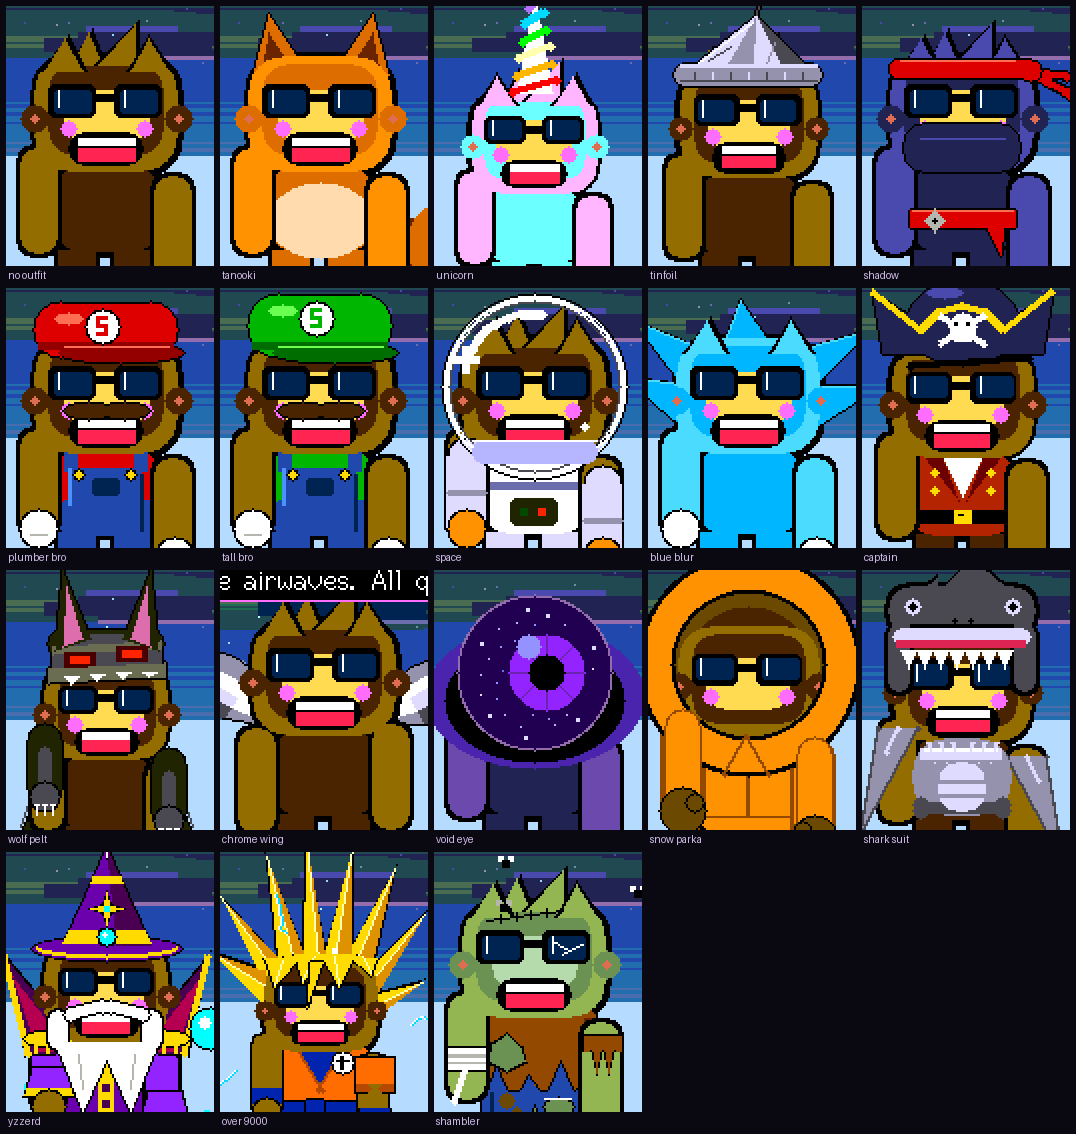
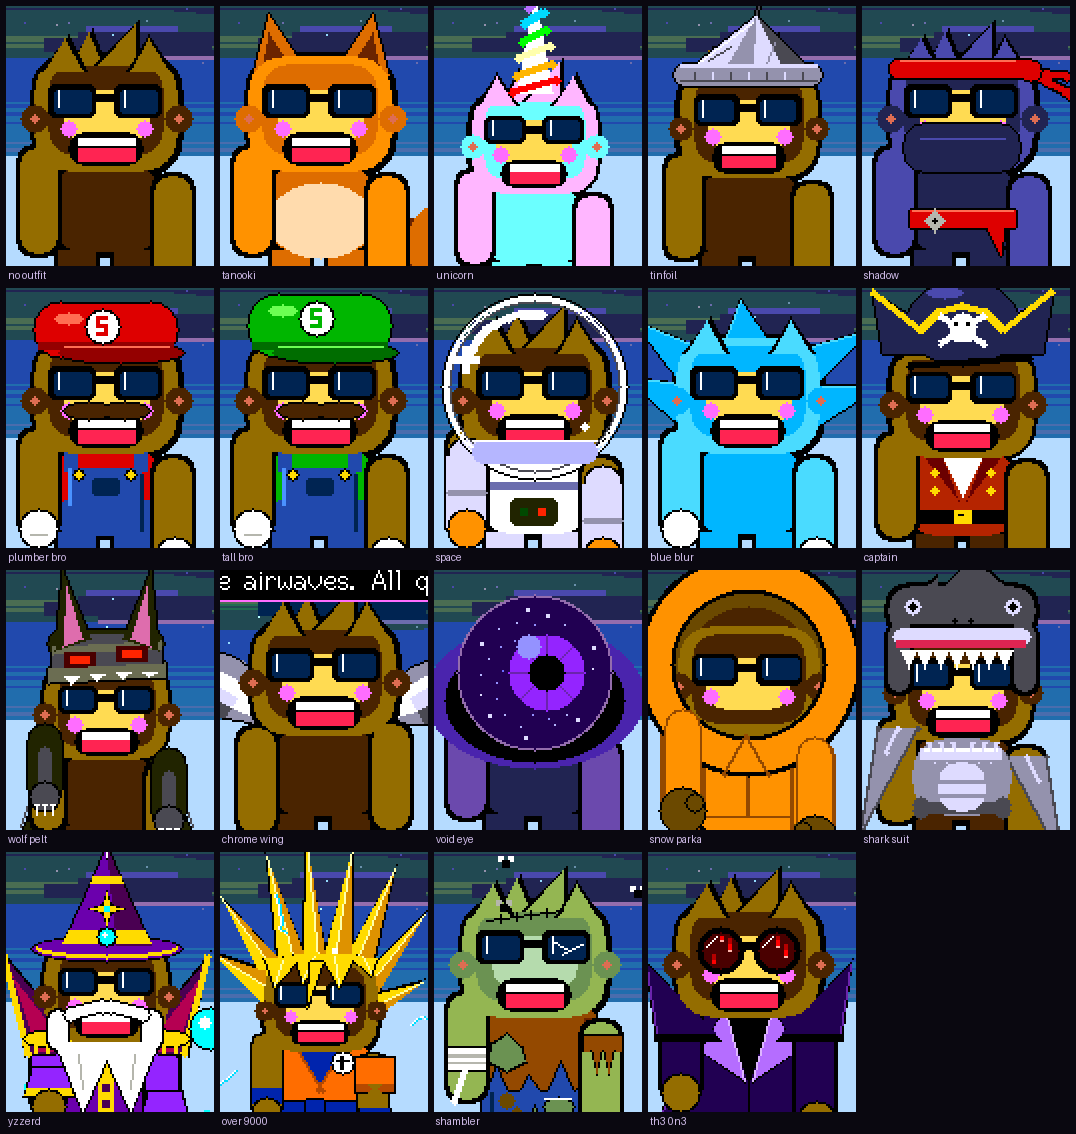
v1.30.0 "No Spoon": notes, clip, gallery with eighteen costumes

Changed region(s): [[0.5827, 0.7407, 0.7974, 1.0]]

diff --git a/sim/make_show_demo.py b/sim/make_show_demo.py
@@ -32,6 +32,22 @@ CYAN  = (0, 214, 214)
 # ---- the clips ----
 
 CLIPS = {
+    # v1.30.0 "No Spoon": the red glyph that falls in the DIGITAL rain now and
+    # then (picked ~1100 steps in, column 5, so the tap lands on it ~25 steps
+    # later), the TH3 0N3 it earns, his red lenses with something serious
+    # seeded nearby, bullet time and the duck (the second bullet, ~19 s in,
+    # clear of --outfit's six-second party shimmer), a pill, the spoon, and
+    # the payphone answering for him.
+    "no-spoon": [
+        ("clear", 1095, 22, ["--noseed", "--bg", "0"], {}, 1500, "ONE GLYPH IN THE RAIN FALLS RED..."),
+        ("clear", 1117, 40, ["--noseed", "--bg", "0", "--tap", "1125:29:93"], {}, 1800, "TAP IT"),
+        ("clear", 260, 40, ["--noseed", "--bg", "0", "--outfit", "18"], {}, 1500, "TH3 0N3"),
+        ("clear", 260, 30, ["--bg", "0", "--outfit", "18"], {}, 1600, "SOMETHING SERIOUS NEARBY? THE CODE RUNS RED"),
+        ("clear", 572, 52, ["--noseed", "--bg", "0", "--outfit", "18", "--tap", "586:160:110"], {}, 1500, "BULLET TIME. TAP HIM AND HE DUCKS"),
+        ("clear", 260, 40, ["--noseed", "--bg", "0", "--outfit", "18", "--tap", "268:144:66"], {}, 1500, "TAP A LENS. RED OR BLUE?"),
+        ("clear", 260, 40, ["--noseed", "--bg", "0", "--outfit", "18"], {"SQUACHSIM_GRAB": "160:70"}, 1500, "PICK HIM UP. THERE IS NO SPOON."),
+        ("phone", 0, 50, ["--outfit", "18"], {}, 1600, "AND THE PAYPHONE RINGS FOR HIM"),
+    ],
     # v1.29.0 "What Reeks": the FIRE owl's new line and the tap that answers
     # it (the clock is millis from boot, so ~910 frames in is his third quip
     # slot, the one he asks in), the SHAMBLER it earns, a Legend visiting in

diff --git a/.github/release-notes/v1.30.0.md b/.github/release-notes/v1.30.0.md
@@ -1,0 +1,26 @@
+<!-- name: No Spoon -->
+<!-- board: a long coat earned from one red glyph in the rain | lenses that run red for the serious stuff | bullet time, pills, a spoon and a ringing payphone | 3 KB of RAM back on every CYD -->
+**No Spoon.** The digital rain has been falling behind Squachy since the very first release, and he's been staring at it the whole time. Turns out he wasn't zoning out. Every half a minute or so, one glyph in the rain now falls **red**. Big, slow, and very much not supposed to be there. Tap it. Squachy will say "Whoa. I know kung fu," and then he'll want a coat.
+
+<p align="center"><img src="https://raw.githubusercontent.com/skizzophrenic/SquachWatch-CYD/v1.30.0/docs/no-spoon.gif" width="480" alt="On the digital rain background one glyph falls in red, gets tapped, and Squachy says Whoa, I know kung fu. Then Squachy as TH3 0N3: a near-black violet coat with purple lapels and his shades made round, green code falling inside them. With a Flock camera and an AirTag nearby the code in his lenses turns red. In bullet time a bullet creeps past his head and he ducks under it. A tap on his left lens puts a red pill in it. Picked up, he dangles from the finger bending a spoon. And the payphone screen opens ringing RING RING."></p>
+
+**TH3 0N3.** The eighteenth outfit, picked from a costume lab of six takes and fifteen passes. A long near-black coat with a violet edge, lapels folded back to show purple lining, boots, and his own chunky shades made round, with green code falling inside the lenses. All the Matrix lives in his glasses; the rest of him is the same flat cardboard cutout as every other costume. On the digital rain background his idle chatter starts dropping hints about a glyph that doesn't belong until you get the idea, and once the coat is yours the rain stops sending red ones.
+
+**He sees the Agents.** While he's wearing it, the code in his lenses turns red and runs faster whenever something serious is nearby: trackers (AirTag, Tile, SmartTag, Google's tags), Flock and ALPR cameras, Axon gear, Raven gunshot detectors, card skimmers, hacking tools, fake access points and deauth floods. Doorbells, smart glasses and the rest leave him green. Anything you've ignored or snoozed doesn't count.
+
+**He's got moves.** Every fourteen seconds he drops into bullet time: the code in his lenses freezes, the air ripples, and a bullet creeps past his head. Tap him while it's crossing and he ducks it ("Too slow."). Tap his left lens and a red pill glows in it; his right lens, a blue one. Pick him up and he dangles from your finger, calmly bending a spoon. Every few minutes the same black cat walks past behind him twice. And open the payphone (renaming him, or writing to your squad) and it rings for him first. He has eight new lines of his own, too. Free your mind. Keep your Bluetooth off.
+
+**3 KB of RAM back.** The wardriving code was holding two capture queues on every board, 2,948 bytes in all, for a feature only the GPS watch can use. They're only made now on a board that actually wardrives.
+
+### The actually-useful part
+
+**Added**
+- TH3 0N3, a new outfit: tap the red glyph that now and then falls in the DIGITAL rain on the main screen. Hints on DIGITAL while it's locked; the master unlock includes it.
+- In TH3 0N3: red lenses while a serious catch is nearby, bullet time every 14 s (tap him to duck), a red or blue pill on a lens tap, a spoon while he's held, a deja vu cat every four minutes, eight lines of his own, and a ringing payphone.
+
+**Changed**
+- The squad radio carries nineteen outfit slots. Older boards show a visiting TH3 0N3 as plain Squachy, and a visitor in the coat wears it without the tricks.
+- The outfit gallery in the README shows all eighteen costumes.
+
+**Fixed**
+- The wardriving capture queues (2,948 bytes of RAM) are made only when wardriving starts, not held on every board.

diff --git a/README.md b/README.md
@@ -399,13 +399,13 @@ one board by hand, then UPDATE SQUAD from it.
 
 ## Every outfit
 
-Squachy has seventeen costumes. Most are earned by detection count; eight are
+Squachy has eighteen costumes. Most are earned by detection count; nine are
 hidden behind things nobody tells you about, on the background they belong
 to. Two of them are in the animation at the top of this page.
 
 <p align="center">
   <img src="docs/outfits.png" width="880"
-       alt="All seventeen of Squachy's outfits, rendered by the firmware">
+       alt="All eighteen of Squachy's outfits, rendered by the firmware">
 </p>
 
 No fabricated marketing shots, which was the promise here before there was
